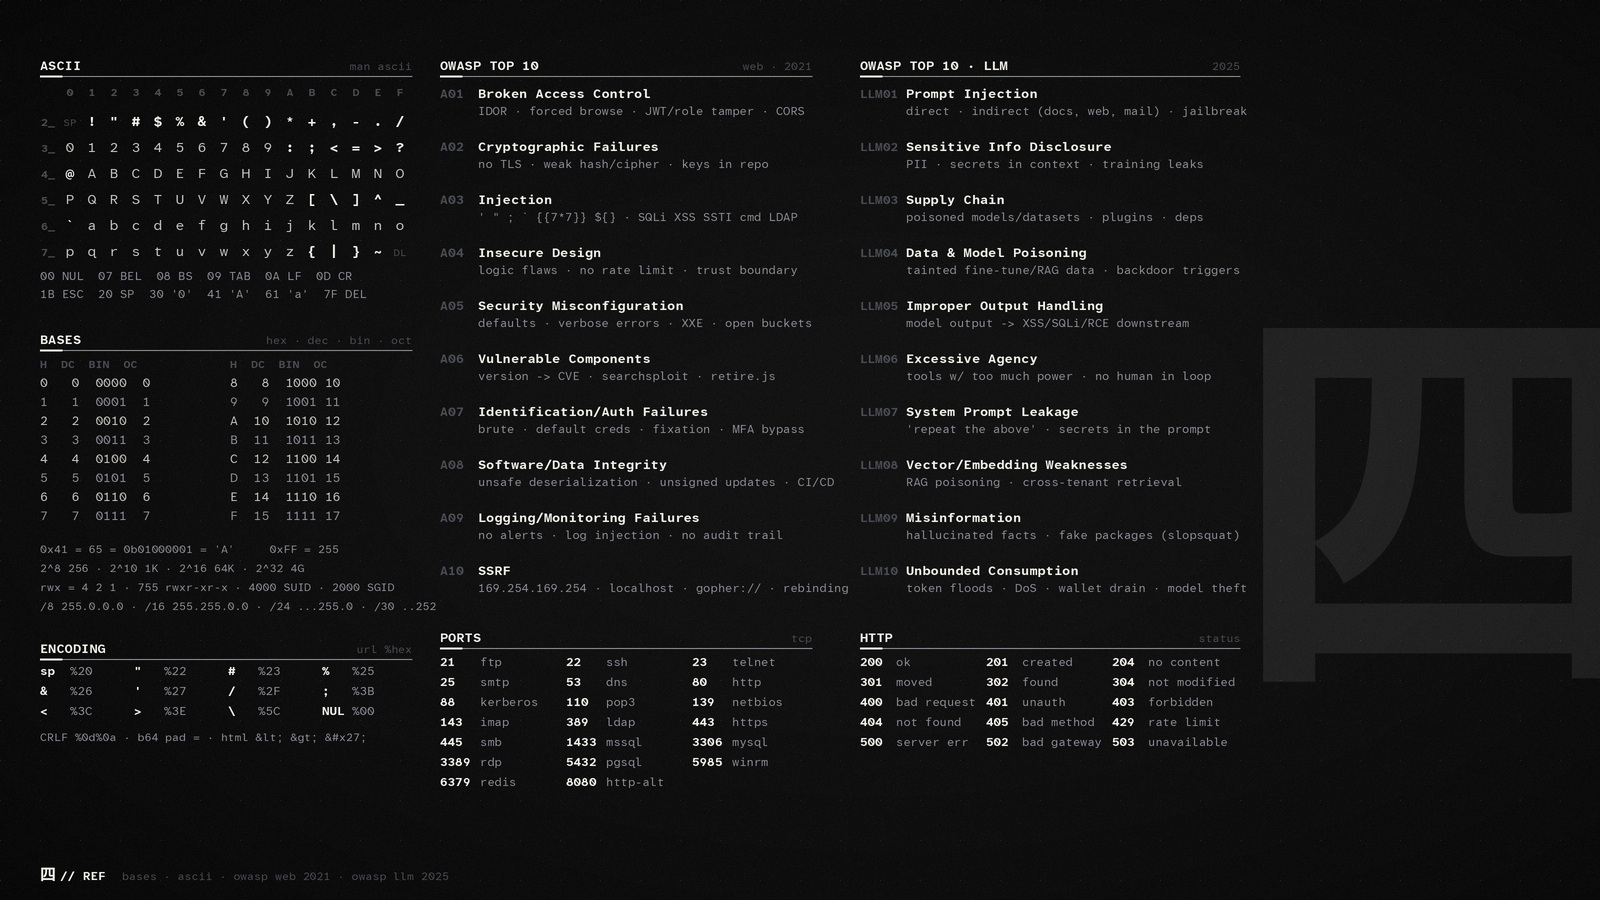
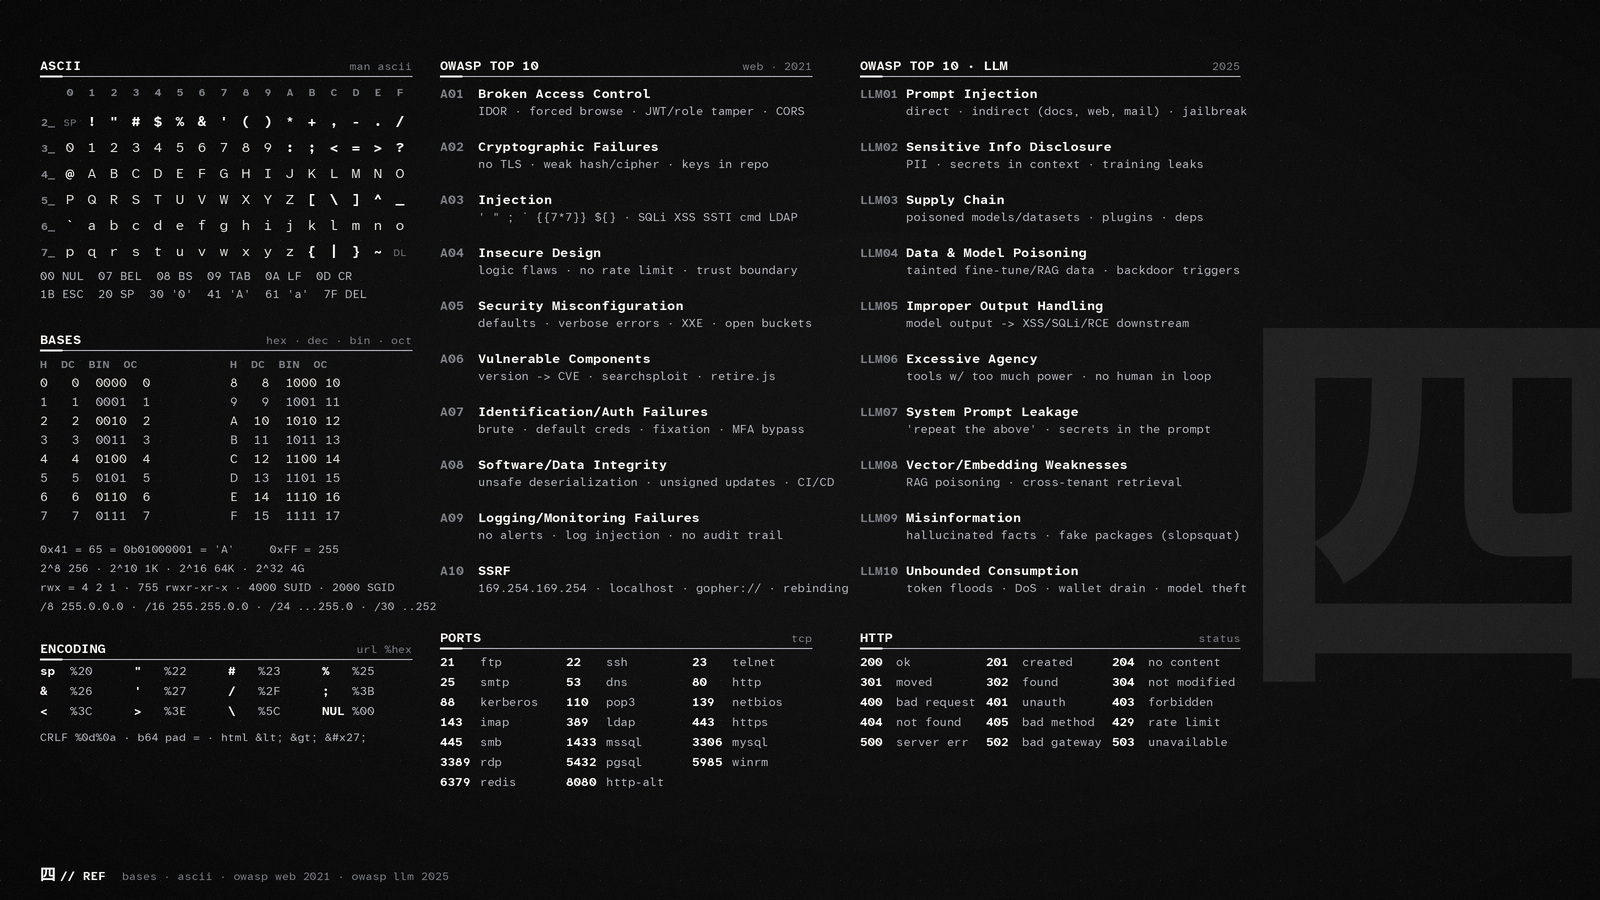
Cheatsheet wallpaper: brighter text for contrast

diff --git a/scripts/wallpaper/gen_cheatsheet.py b/scripts/wallpaper/gen_cheatsheet.py
@@ -21,7 +21,7 @@ W, H, K = 1600, 900, 2                      # logical size, supersample factor
 FONTS = ROOT / "assets/fonts/AtkinsonHyperlegibleMono"
 CJK = "/usr/share/fonts/opentype/noto/NotoSansCJK-Bold.ttc"
 
-WHITE, LIGHT, MID, DIM, FAINT = (242, 239, 233), (201, 198, 192), (142, 144, 153), (75, 77, 85), (38, 39, 43)
+WHITE, LIGHT, MID, DIM, FAINT = (252, 250, 246), (232, 229, 223), (188, 190, 198), (128, 130, 138), (38, 39, 43)
 
 img = Image.new("RGB", (W * K, H * K), (10, 10, 12))
 d = ImageDraw.Draw(img)
